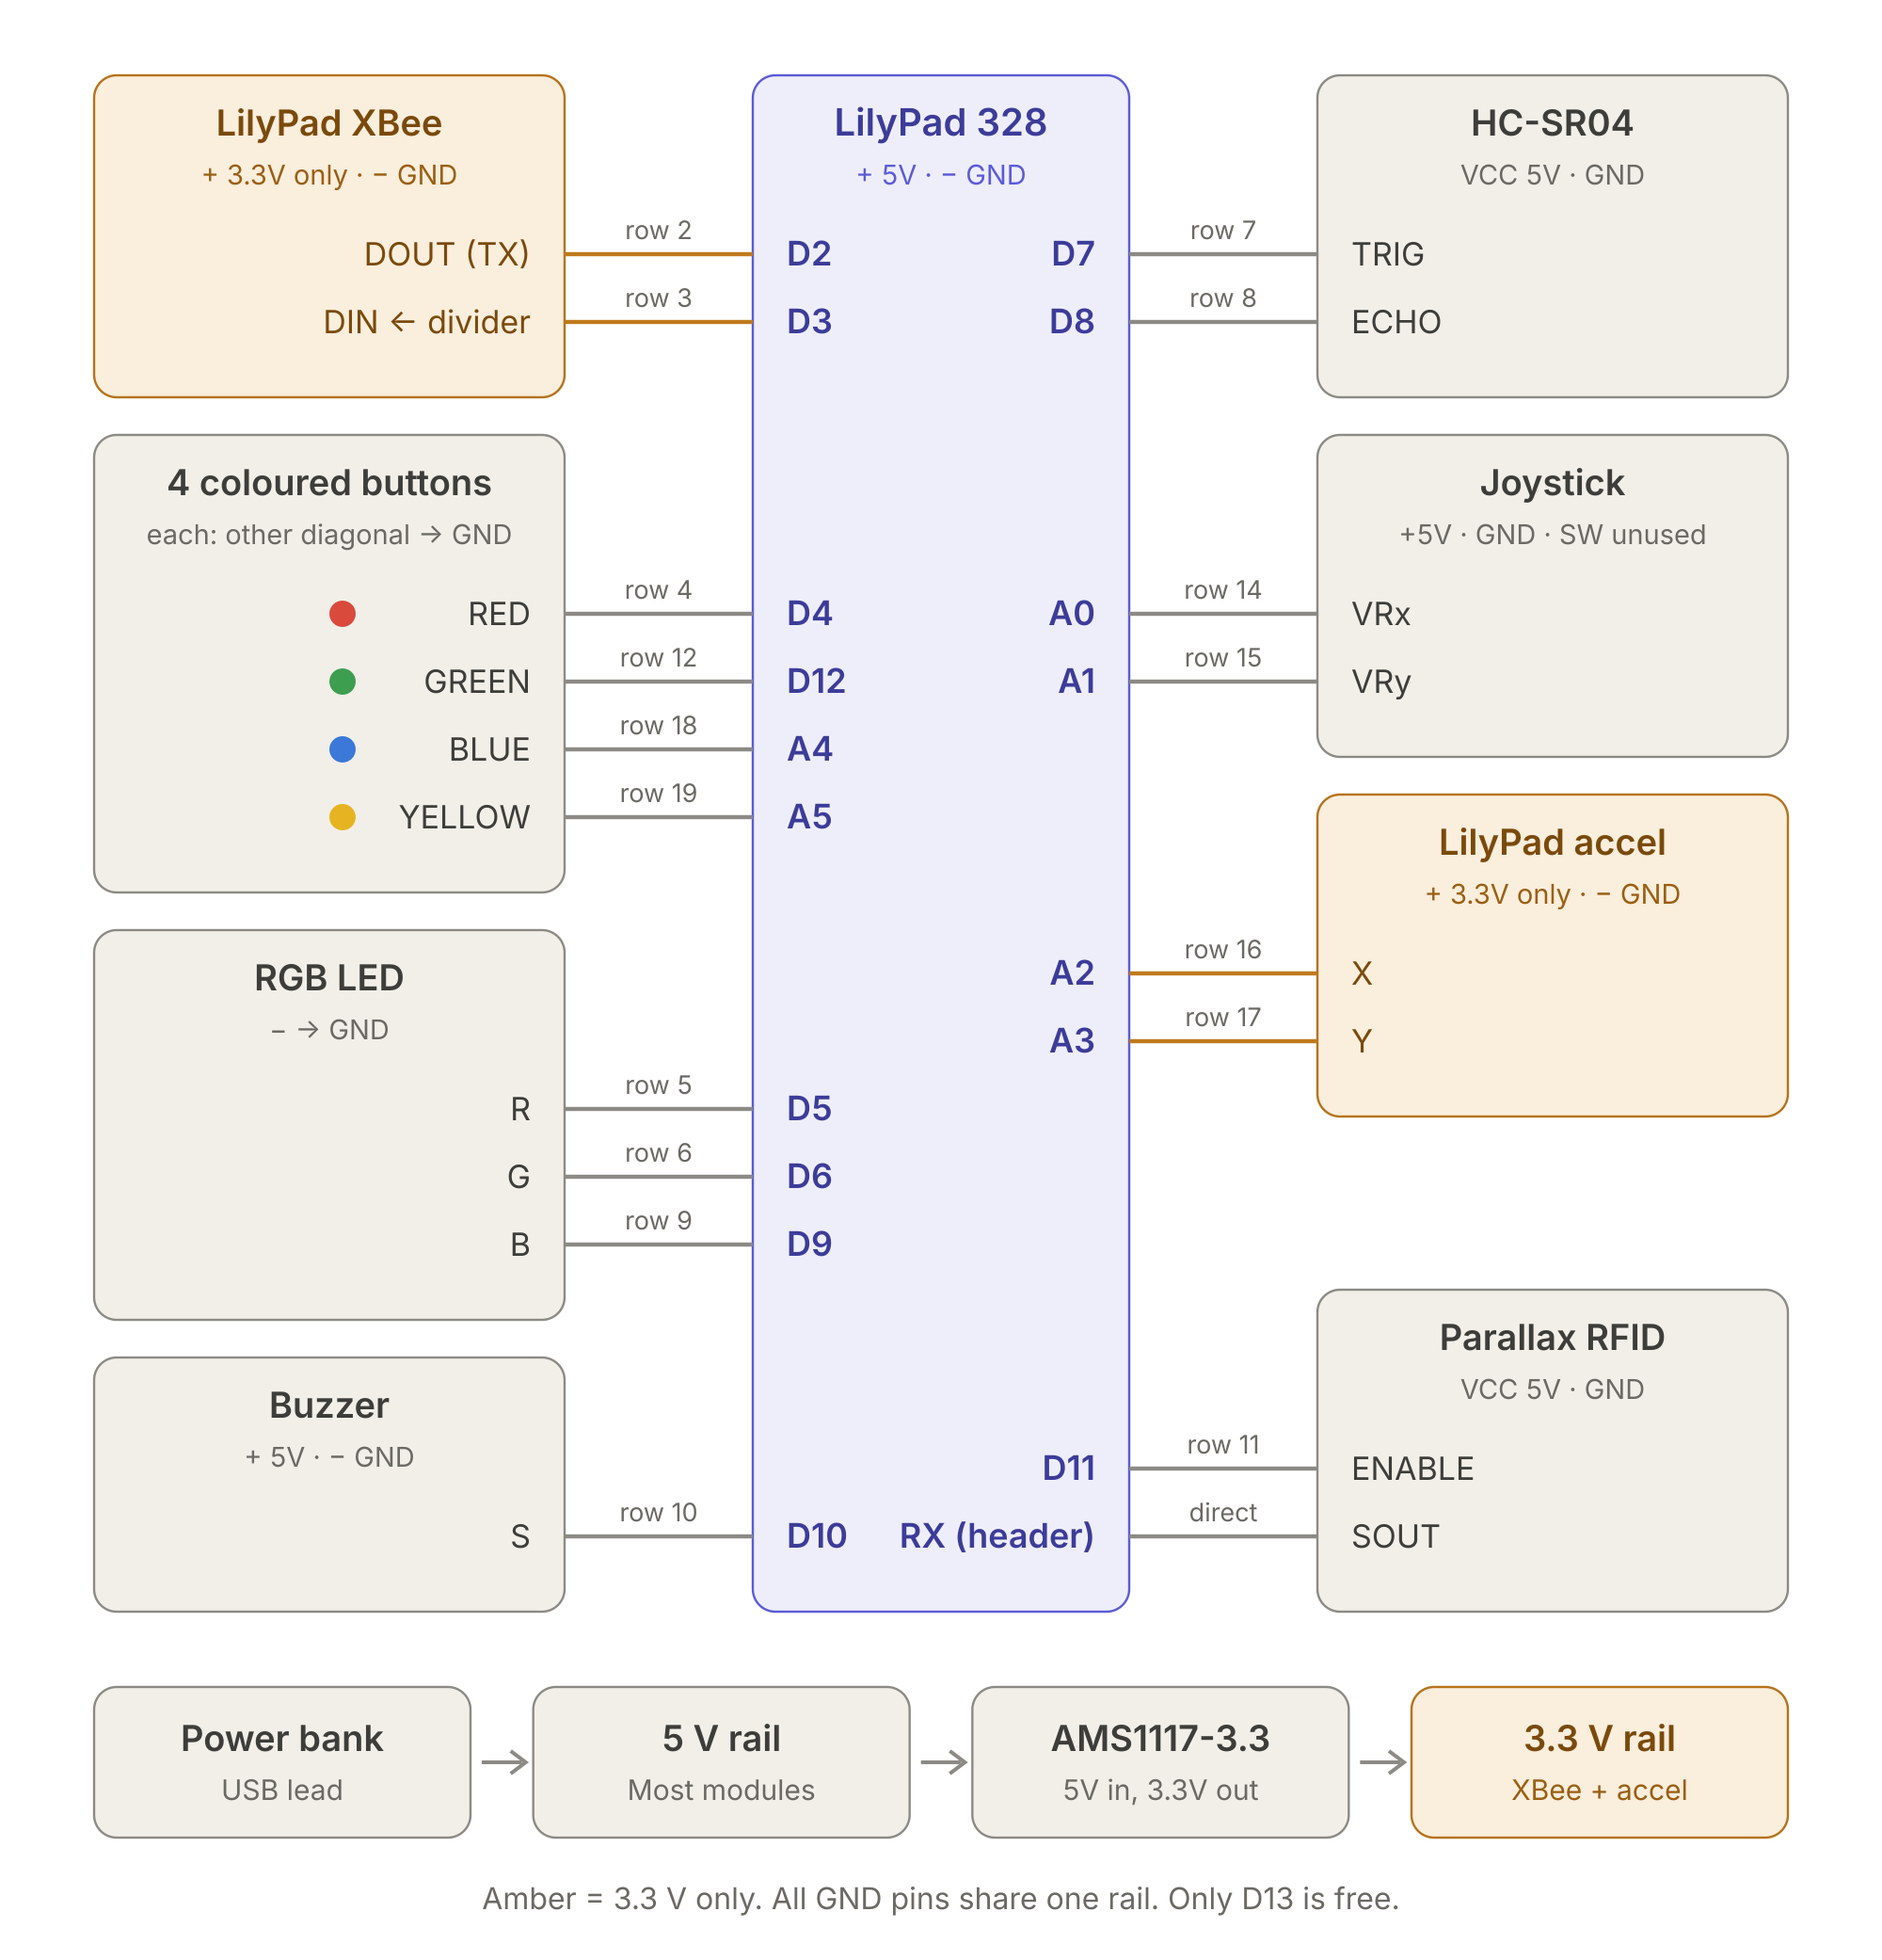
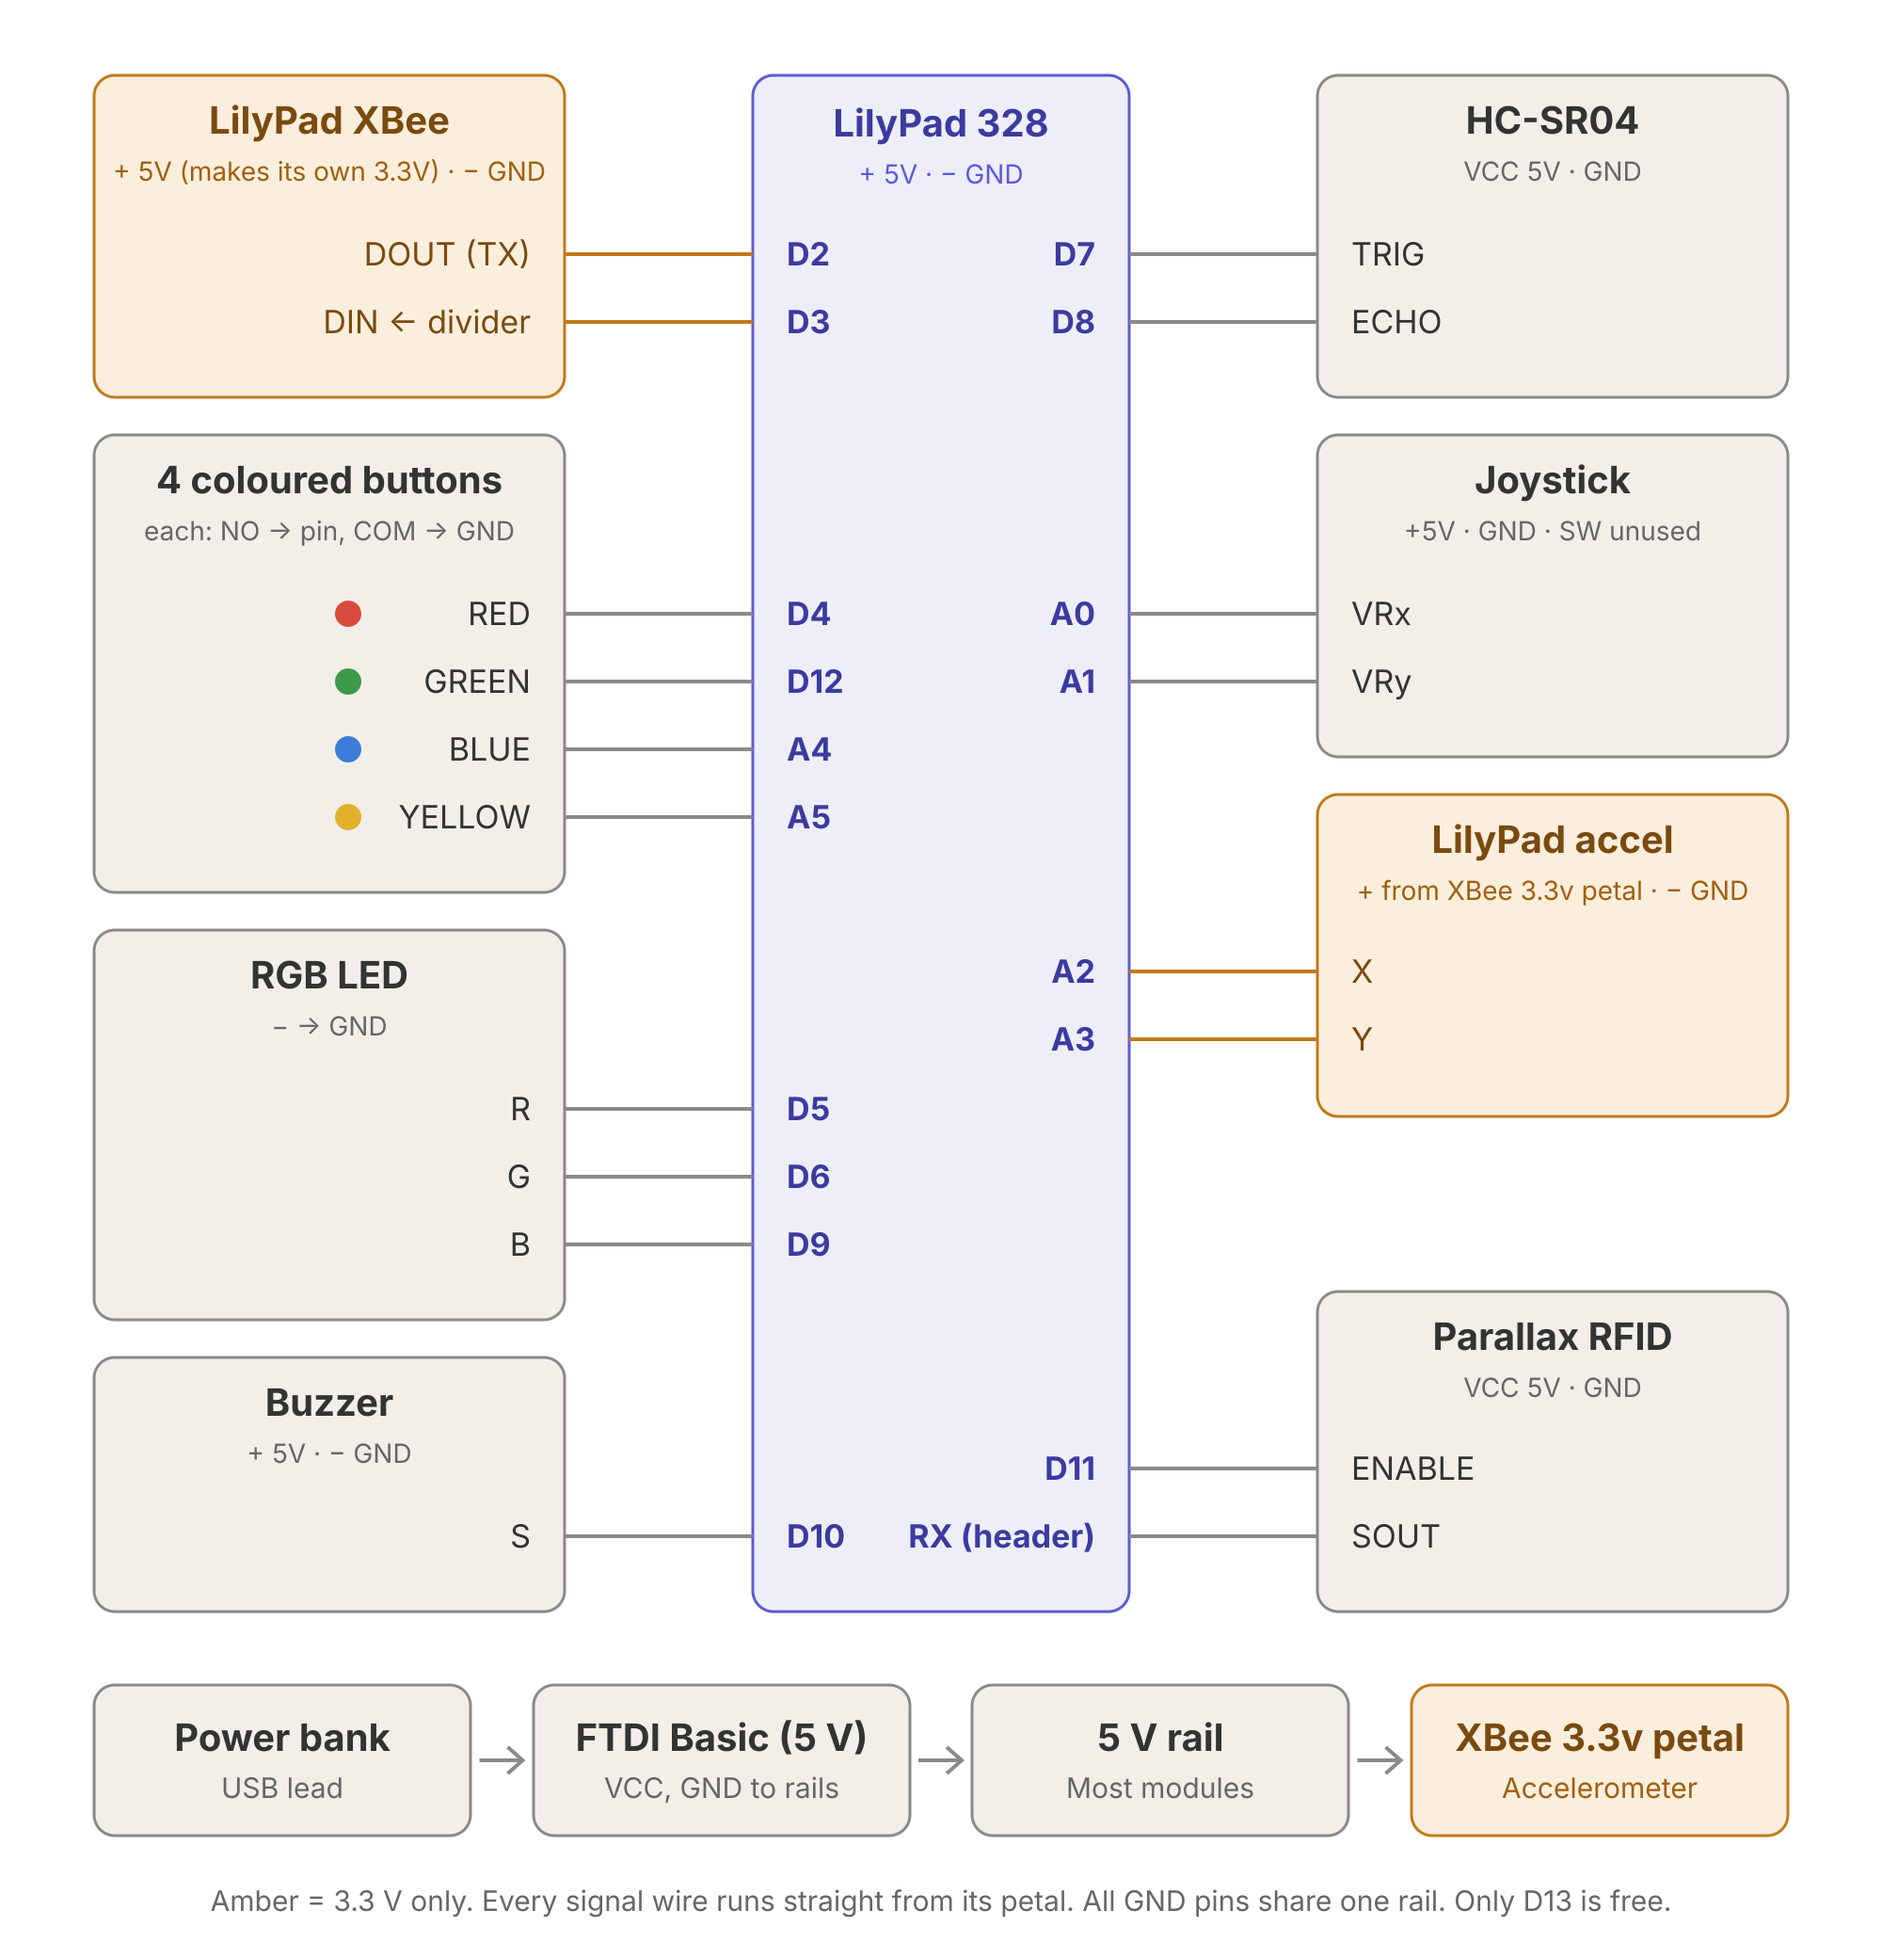
adjustments to README

diff --git a/README.md b/README.md
@@ -14,7 +14,7 @@ Simon (the laptop) speaks an instruction and shows it on the big screen. Each pl
 | Four coloured buttons | Press red / green / blue / yellow, once or twice |
 | RFID reader | Scan your card |
 | Ultrasonic sensor | Hold your hand low / in the middle / high |
-| Tilt controller | Tilt left / right / forward / back |
+| Accelerometer inside the pod | Tilt the pod left / right / forward / back |
 
 If an instruction doesn't start with "Simon says", the right answer is to do nothing.
 
@@ -25,7 +25,7 @@ If an instruction doesn't start with "Simon says", the right answer is to do not
 
 ## Hardware (per pod)
 
-LilyPad Arduino 328 · LilyPad XBee · 4 tactile buttons · RGB LED · passive buzzer · HC-SR04 · joystick · LilyPad accelerometer (ADXL335) · Parallax 125 kHz serial RFID reader · AMS1117-3.3 regulator · USB power bank.
+LilyPad Arduino 328 · LilyPad XBee · 4 arcade buttons · RGB LED · passive buzzer · HC-SR04 · joystick · LilyPad accelerometer (ADXL335) · Parallax 125 kHz serial RFID reader · FTDI Basic (5 V) · USB power bank.
 
 The laptop uses a third XBee on an XBee Explorer USB.
 
@@ -40,7 +40,9 @@ The laptop uses a third XBee on an XBee Explorer USB.
 | D5, D6, D9 | RGB red, green, blue | A2, A3 | Accelerometer X, Y |
 | D7, D8 | HC-SR04 TRIG, ECHO | A4, A5 | Blue, yellow buttons |
 
-The XBee and accelerometer run on the 3.3 V rail; everything else runs on 5 V.
+Power comes from the power bank through the pod's FTDI Basic, whose VCC and GND feed the breadboard's 5 V and GND rails. The breadboard is only a power strip: every signal wire runs straight from its LilyPad petal to the module.
+
+The XBee radio and the accelerometer are 3.3 V parts. The LilyPad XBee board sits on 5 V and makes its own 3.3 V; the accelerometer takes its power from that board's 3.3v petal. D3 reaches the XBee's DIN through a 10 kΩ / 20 kΩ divider. Everything else runs on 5 V.
 
 ## Software design
 
@@ -67,21 +69,21 @@ docs/                wiring diagram
 
 ### 1. Flash the pods
 
-Open `firmware/pod/pod.ino` in the Arduino IDE. Pick Board **LilyPad Arduino** and Processor **ATmega328P**, then upload with an FTDI Basic. Set `POD` to `"P1"` or `"P2"` first.
+Open `firmware/pod/pod.ino` in the Arduino IDE. Set `#define POD_NUMBER` to `1` or `2` first: it picks the pod's name and its own tuning block (joystick axes, tilt fingerprints, hand-height zones). Pick Board **LilyPad Arduino** and Processor **ATmega328P**, then upload with the pod's FTDI Basic plugged onto the LilyPad's header.
 
 **Unplug the RFID SOUT wire before every upload.** It shares the RX line with the FTDI.
 
 New hardware? Run the module tests in `firmware/tests/` first. Each sketch's header says what a pass looks like.
 
-### 2. Configure the XBees (XCTU)
+### 2. Configure the XBees
 
-All three radios use AT mode, PAN ID `4210` and 9600 baud.
+The radios are Series 1 (802.15.4) XBees in AT mode, all on PAN ID `1171` at 9600 baud. Set them in XCTU, or with AT commands through the `t8_xbee_bridge` sketch.
 
-| Radio | Role | DH / DL |
-| --- | --- | --- |
-| Laptop | Coordinator | 0 / FFFF |
-| Pod 1 | Router | 0 / 0 |
-| Pod 2 | Router | 0 / 0 |
+| Radio | MY | DH / DL | Effect |
+| --- | --- | --- | --- |
+| Laptop | 1111 | 0 / FFFF | Broadcasts to both pods |
+| Pod 1 | its own address | 0 / 1111 | Sends to the laptop |
+| Pod 2 | 3333 | 0 / 1111 | Sends to the laptop |
 
 ### 3. Make the voice clips
 
